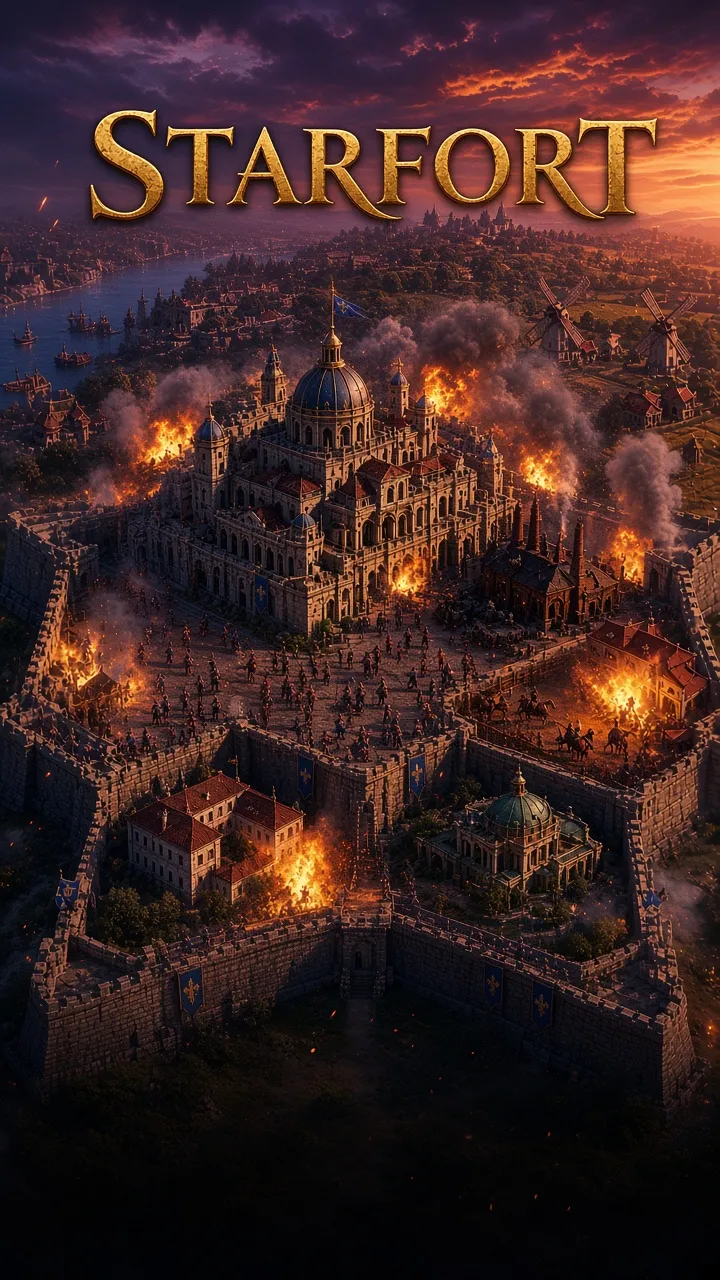
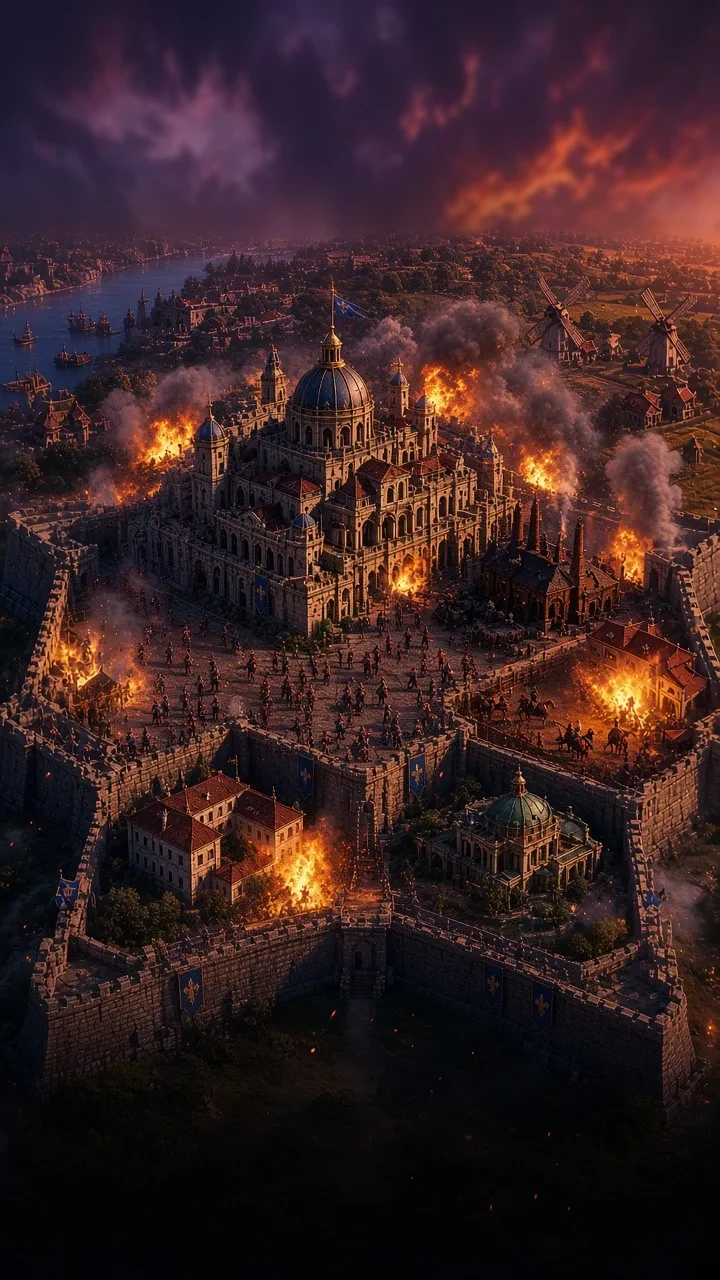
Title: remove duplicate baked STARFORT text; war odds moved to logic.js, empty-target hint, no counter btn when no defenders (11 langs); sw sf-b41-5-odds

Changed region(s): [[0.0611, 0.0, 1.0, 0.1875], [0.0306, 0.125, 0.0917, 0.1875]]

diff --git a/online.js b/online.js
@@ -572,14 +572,13 @@ OA.wHeal=async v=>{try{await push();const r=await rpc('army_heal',{p_gems:v==='1
 function openSend(mode,tgt,label,kind){const S=G.S;WS={mode,tgt,label,kind,wait:60,tr:{}};for(const t of WTY)WS.tr[t]=Math.floor(S.troops[t]||0);open('wsend',sendHtml)}
 function sendHtml(){const S=G.S,sc=WSC[WS.tgt];let h=hdr('⚔ '+T('w_form'))+`<div class="sub" style="margin-bottom:6px">🎯 ${esc(WS.label||'')}</div>`;
  for(const t of WTY){const mx=Math.floor(S.troops[t]||0);h+=`<div class="card"><div class="ic">${WTIC[t]}</div><div class="mid"><div class="nm">${tyN(t)} <small data-wl="${t}">${G.fmt(WS.tr[t])}/${G.fmt(mx)}</small></div><input type="range" min="0" max="${mx}" value="${Math.min(WS.tr[t],mx)}" data-wt="${t}" style="width:100%"></div></div>`}
- if(sc){const e=sc.troops||{},big=WTY.slice().sort((a,b)=>(e[b]||0)-(e[a]||0))[0],ctr=WTY.find(t=>WBEAT[t]===big);const me=wPow(WS.tr,e),en=wPow(e,WS.tr),q=me/Math.max(1,en),v=q>=1.3?'hi':q>=.9?'mid':'lo';h+=`<div class="card"><div class="ic">🔭</div><div class="mid"><div class="nm">${WTY.map(t=>WTIC[t]+' ~'+G.fmt(e[t]||0)).join(' ')}</div><div class="sub">💡 ${T('w_hint',[tyN(big),tyN(ctr)])}</div><div class="sub" style="color:${v==='hi'?'#7c5':v==='mid'?'#fc4':'#f65'}">📊 ${T('w_odds',[G.fmt(me),G.fmt(en)])} · ${T('w_odds_'+v)}</div></div><button class="btn sm" data-o="wCtr" data-v="${ctr}">🔁 ${tyN(ctr)}</button></div>`}else h+=`<div class="sub">💡 ${T('w_hint0')}</div>`;
+ if(sc){const e=sc.troops||{},o=G.L.warOdds(WS.tr,e,WBEAT,AR?.tier,WTY),v=o.v;h+=`<div class="card"><div class="ic">🔭</div><div class="mid"><div class="nm">${WTY.map(t=>WTIC[t]+' ~'+G.fmt(e[t]||0)).join(' ')}</div><div class="sub">💡 ${o.empty?T('w_hint_empty'):T('w_hint',[tyN(o.big),tyN(o.ctr)])}</div><div class="sub" style="color:${v==='hi'?'#7c5':v==='mid'?'#fc4':'#f65'}">📊 ${T('w_odds',[G.fmt(o.me),G.fmt(o.en)])} · ${T('w_odds_'+v)}</div></div>${o.empty?'':`<button class="btn sm" data-o="wCtr" data-v="${o.ctr}">🔁 ${tyN(o.ctr)}</button>`}</div>`}else h+=`<div class="sub">💡 ${T('w_hint0')}</div>`;
  if(WS.mode==='rally')h+=`<div style="display:flex;gap:6px;margin:6px 0">${[60,300].map(s=>`<button class="btn sm ${WS.wait===s?'g':''}" data-o="wWait" data-v="${s}">⏱ ${G.fmtT(s)}</button>`).join('')}</div>`;
  const n=WTY.reduce((a,t)=>a+WS.tr[t],0),lab={pvp:'⚔ '+T('w_attack'),rally:'🚩 '+T('w_rally'),join:'🚩 '+T('w_join'),gar:'🛡 '+T('w_gar')}[WS.mode];
  return h+`<div style="display:flex;gap:6px;margin-top:8px;flex-wrap:wrap"><button class="btn sm" data-o="wAll" data-v="1">100%</button><button class="btn sm" data-o="wAll" data-v="0.5">50%</button><button class="btn r" data-o="wGo" ${n<1?'disabled':''}>${lab} · ${G.fmt(n)}</button></div>`+(n<1?`<div class="sub">${T('w_e_troops')}</div>`:'')}
 document.addEventListener('input',e=>{const t=e.target?.dataset?.wt;if(!t||!WS.tr)return;WS.tr[t]=+e.target.value;const l=document.querySelector(`[data-wl="${t}"]`);if(l)l.textContent=G.fmt(WS.tr[t])+'/'+G.fmt(Math.floor(G.S.troops[t]||0))});
 document.addEventListener('change',e=>{if(e.target?.dataset?.wt&&sheetIs('wsend'))rerender()});
 OA.wAll=v=>{for(const t of WTY)WS.tr[t]=Math.floor((G.S.troops[t]||0)*+v);rerender()};
-function wPow(a,b){const ti=AR?.tier||{};let p=0;for(const t of WTY){const n=+(a[t]||0),bt=+(b[WBEAT[t]]||0),tot=WTY.reduce((x,k)=>x+(+(b[k]||0)),0)||1;p+=n*(1+.3*((+ti[t]||1)-1))*(1+.25*bt/tot)}return Math.round(p)}
 OA.wCtr=t=>{for(const k of WTY)WS.tr[k]=Math.floor((G.S.troops[k]||0)*(k===t?1:.5));rerender()};
 OA.wWait=v=>{WS.wait=+v;rerender()};
 OA.wGo=async()=>{if(W.busy)return;W.busy=1;try{await push();const tr=WS.tr;let r;

diff --git a/sw.js b/sw.js
@@ -1,5 +1,5 @@
 // Starfort service worker: kod ağdan önce (no-cache ile ETag doğrulaması), görseller/fontlar önbellekten.
-const VER='sf-b41-4-title',CORE=['./','index.html','game.js','logic.js','i18n.js','online.js','./guide.js','./world.js','./art.js','lib/three.module.js','lib/supabase.js','manifest.webmanifest','img/icon-192.png','img/title.webp','img/cap_yusuf.webp'];
+const VER='sf-b41-5-odds',CORE=['./','index.html','game.js','logic.js','i18n.js','online.js','./guide.js','./world.js','./art.js','lib/three.module.js','lib/supabase.js','manifest.webmanifest','img/icon-192.png','img/title.webp','img/cap_yusuf.webp'];
 self.addEventListener('install',e=>{e.waitUntil(caches.open(VER).then(c=>c.addAll(CORE.map(u=>new Request(u,{cache:'reload'})))).catch(()=>{}));self.skipWaiting()});
 self.addEventListener('activate',e=>{e.waitUntil(caches.keys().then(ks=>Promise.all(ks.filter(k=>k!==VER).map(k=>caches.delete(k)))).then(()=>self.clients.claim()))});
 self.addEventListener('fetch',e=>{const r=e.request,u=new URL(r.url);if(r.method!=='GET'||u.origin!==location.origin)return;

diff --git a/logic.js b/logic.js
@@ -440,3 +440,10 @@ export const SKINS=[
 ];
 export const skinOf=S=>SKINS.find(x=>x.id===S.skin&&x.f(S)>=x.n)||SKINS[0];
 export function setSkin(S,id){const k=SKINS.find(x=>x.id===id);if(!k)return'Yok';if(k.f(S)<k.n)return'Kilitli';S.skin=id;return null}
+
+// Saldırı öncesi tahmini güç (keşif + seçilen birlik). a: benim dizilim, b: keşfedilen düşman, beat: tip→yendiği tip, tier: birlik kademesi.
+export function warPow(a,b,beat,tier,types){let p=0;const tot=types.reduce((x,k)=>x+(+(b[k]||0)),0)||1;for(const t of types){const n=+(a[t]||0),bt=+(b[beat[t]]||0);p+=n*(1+.3*((+(tier||{})[t]||1)-1))*(1+.25*bt/tot)}return Math.round(p)}
+export function warOdds(me,en,beat,tier,types){const etot=types.reduce((x,k)=>x+(+(en[k]||0)),0),mtot=types.reduce((x,k)=>x+(+(me[k]||0)),0);
+ const big=types.slice().sort((x,y)=>(+(en[y]||0))-(+(en[x]||0)))[0],ctr=types.find(t=>beat[t]===big);
+ const m=warPow(me,en,beat,tier,types),e=warPow(en,me,beat,tier,types),q=m/Math.max(1,e);
+ const v=mtot<1?'lo':etot<1?'hi':q>=1.3?'hi':q>=.9?'mid':'lo';return {me:m,en:e,v,empty:etot<1,big,ctr}}
